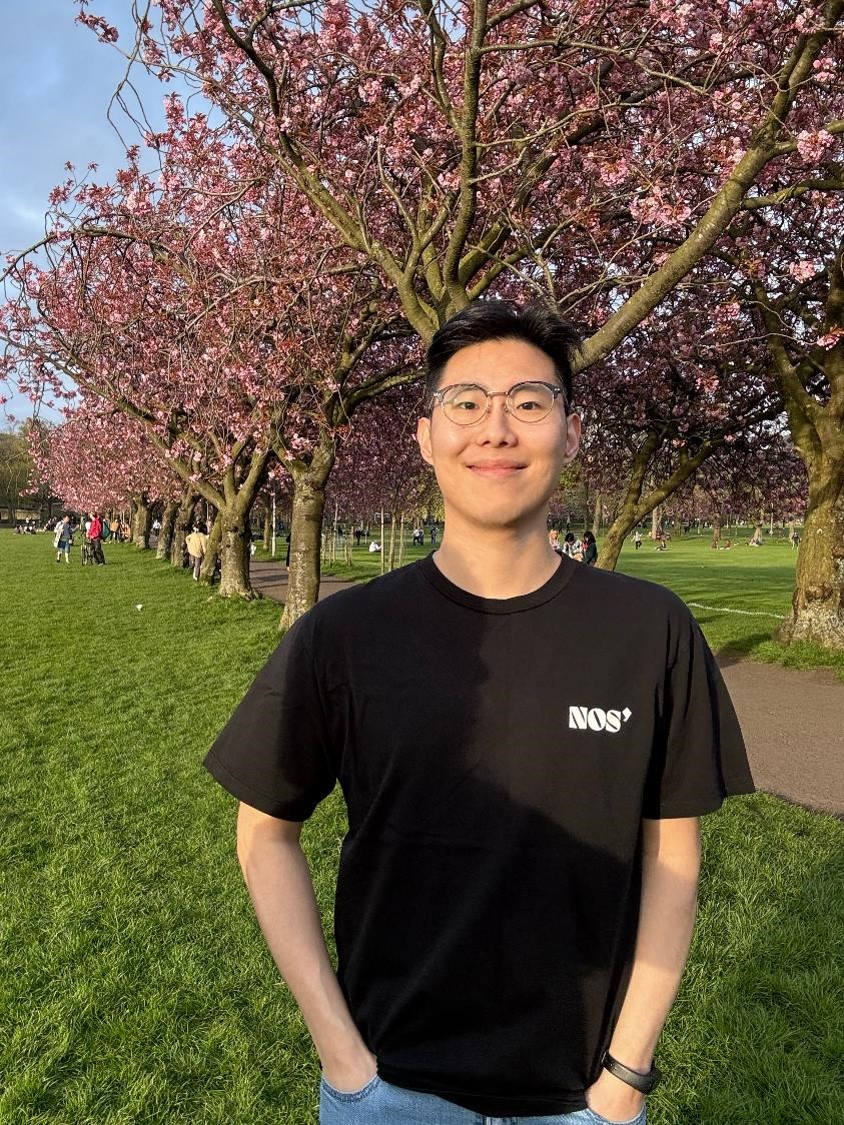
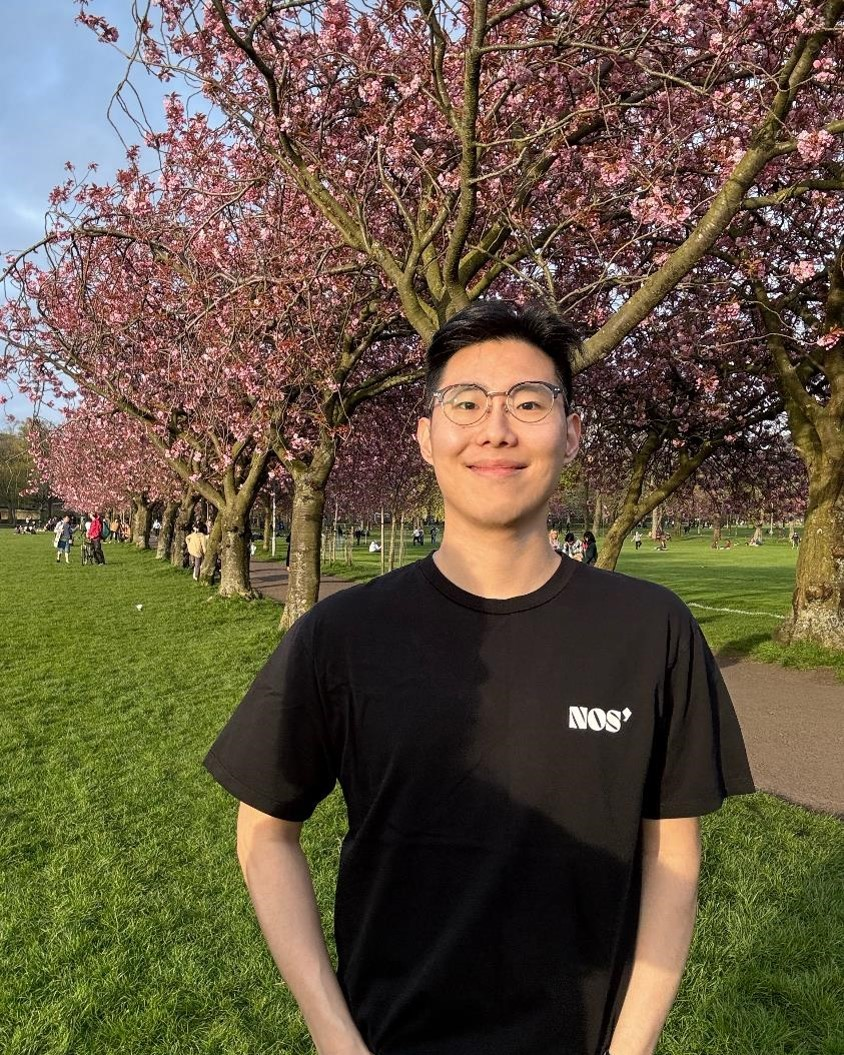
Update front image
@media screen and (max-width: 1680px) {

		.container.\31 25\25 {
			width: 100%;
			max-width: 100em;
			min-width: 80em;
		}

		.container.\37 5\25 {
			width: 60em;
		}

		.container.\35 0\25 {
			width: 40em;
		}

		.container.\32 5\25 {
			width: 20em;
		}

		.container {
			width: 80em;
		}
		.image{
			width: 28%;
		}

	}

Include inside max-width: 1680px

diff --git a/assets/css/main.css b/assets/css/main.css
@@ -107,6 +107,9 @@
 		.container {
 			width: 80em;
 		}
+		.image{
+			width: 28%;
+		}
 
 	}
 
@@ -133,7 +136,6 @@
 		.container {
 			width: 65em;
 		}
-
 	}
 
 	@media screen and (max-width: 980px) {
@@ -2041,7 +2043,6 @@
 			.feature-grid .feature .content{
 				width : 55%
 			}
-
 		}
 
 		@media screen and (max-width: 980px) {
